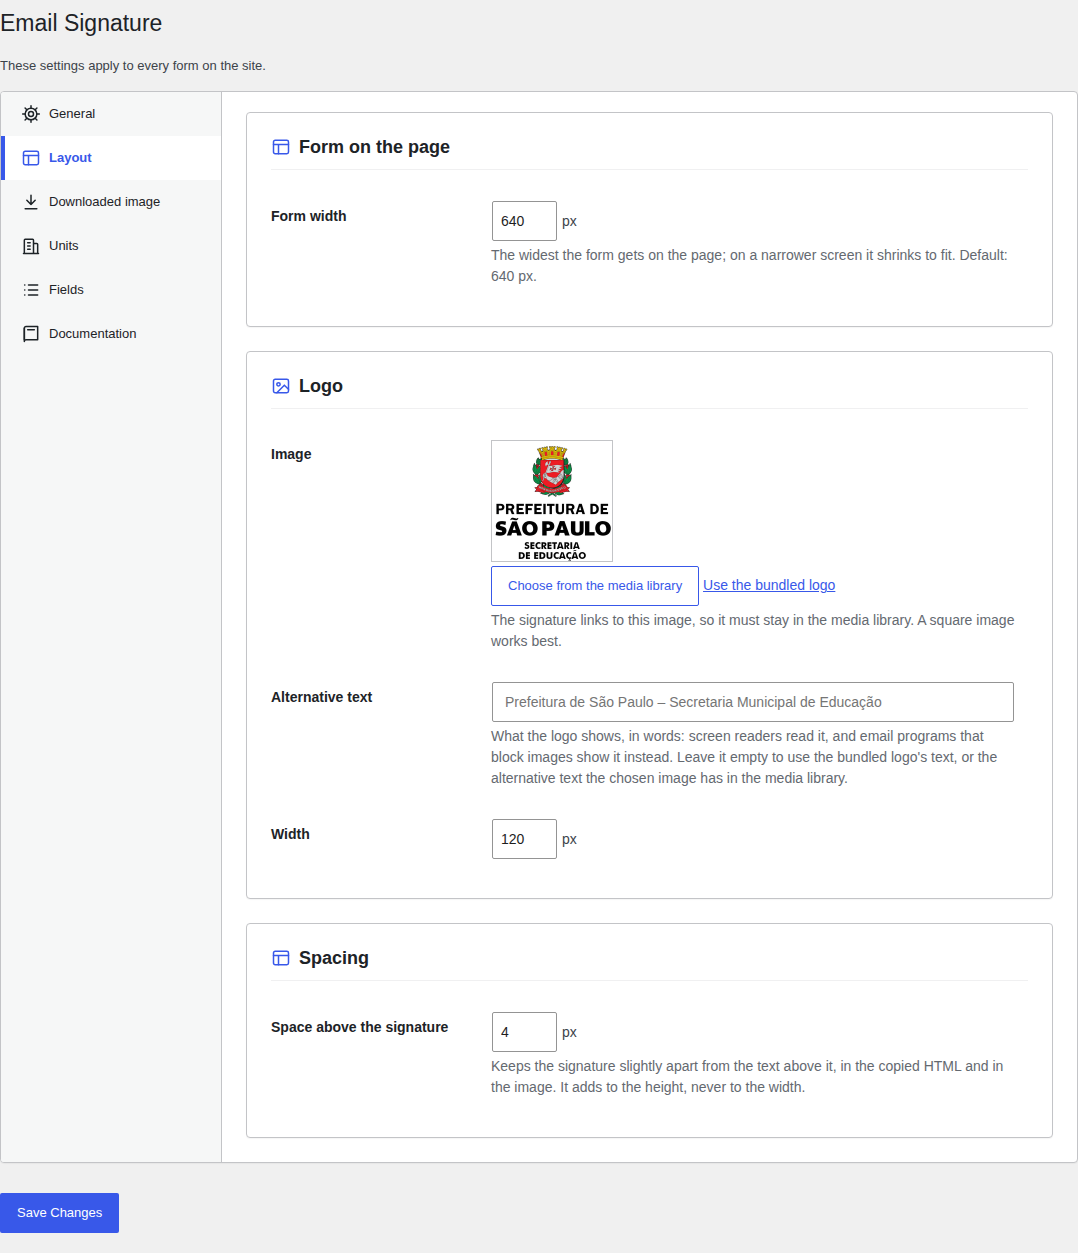
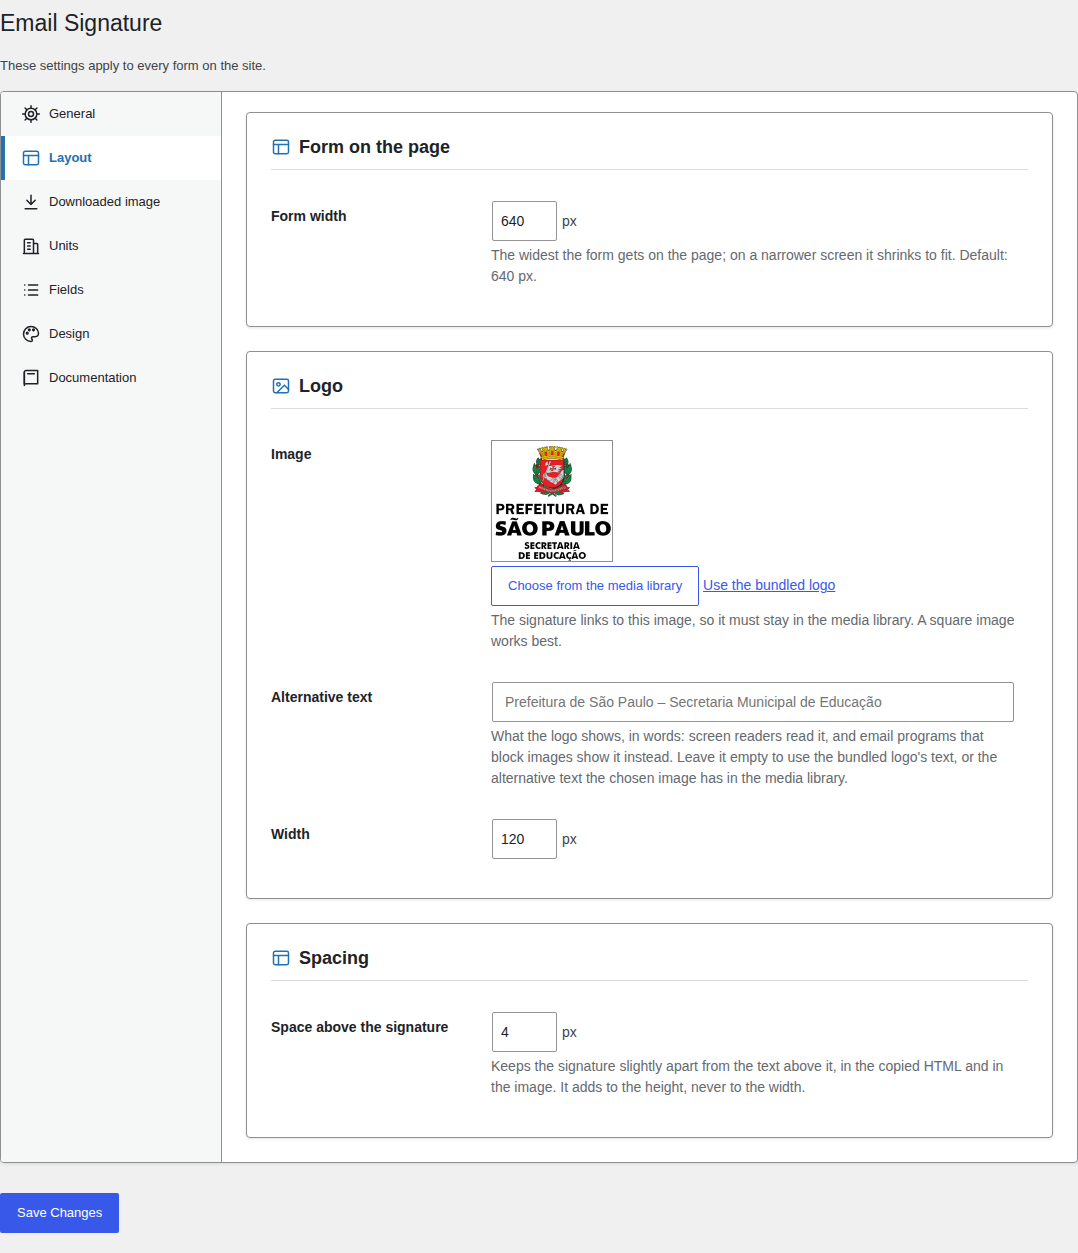
release: 1.2.0 — review README, readme.txt and screenshots
The settings screenshots show the new colours and Quick Navigation, and
both readmes list the Dark Mode setting.

Claude-Session: https://claude.ai/code/session_018srx5hc431EYmG4MHUr2KA

Changed region(s): [[0.0, 0.249, 0.1224, 0.3113], [0.0, 0.0934, 0.0306, 0.1556]]

diff --git a/README.md b/README.md
@@ -23,7 +23,7 @@ The default layout and logo are those of the São Paulo Municipal Department of 
 
 In **Settings → Email Signature** an administrator sets, for every form on the site:
 
-- **General:** the models offered, who may use the form, whether each browser may remember what was typed, optional Google Analytics (off by default; only a GA4 measurement ID, never a pasted snippet), and the email domains (only some allowed, shown beside the field so people type only the part before the "@", or any address except placeholder domains such as `test.com`).
+- **General:** the models offered, who may use the form, whether each browser may remember what was typed, optional Google Analytics (off by default; only a GA4 measurement ID, never a pasted snippet), and the email domains (only some allowed, shown beside the field so people type only the part before the "@", or any address except placeholder domains such as `test.com`), and this screen's Dark Mode (off, on, or following the operating system).
 - **Layout:** how wide the form gets on the page, the logo (from the media library), its width and its alternative text, and the space above the signature.
 - **Downloaded image:** whether and how the download is offered, and the image's format (PNG or JPG) and resolution.
 - **Units:** the units people choose from (name and acronym), and which one the form starts on.
@@ -31,7 +31,7 @@ In **Settings → Email Signature** an administrator sets, for every form on the
 - **Design:** off by default; switched on, the form's colours (accent, text on it, borders, notes, errors), rounded corners and font (its own or the theme's). Colour pairs below WCAG's 4.5:1 are saved with a warning. The signature itself keeps its look.
 - **Documentation:** what every setting does, how the form behaves, privacy and updates, inside WordPress.
 
-The on/off settings save the moment they are flipped; the rest saves with **Save Changes**.
+The on/off settings and Dark Mode save the moment they change; the rest saves with **Save Changes**.
 
 **Standalone**, open the `.html` file in a browser, publish it on any web page, or embed the latest one:
 
